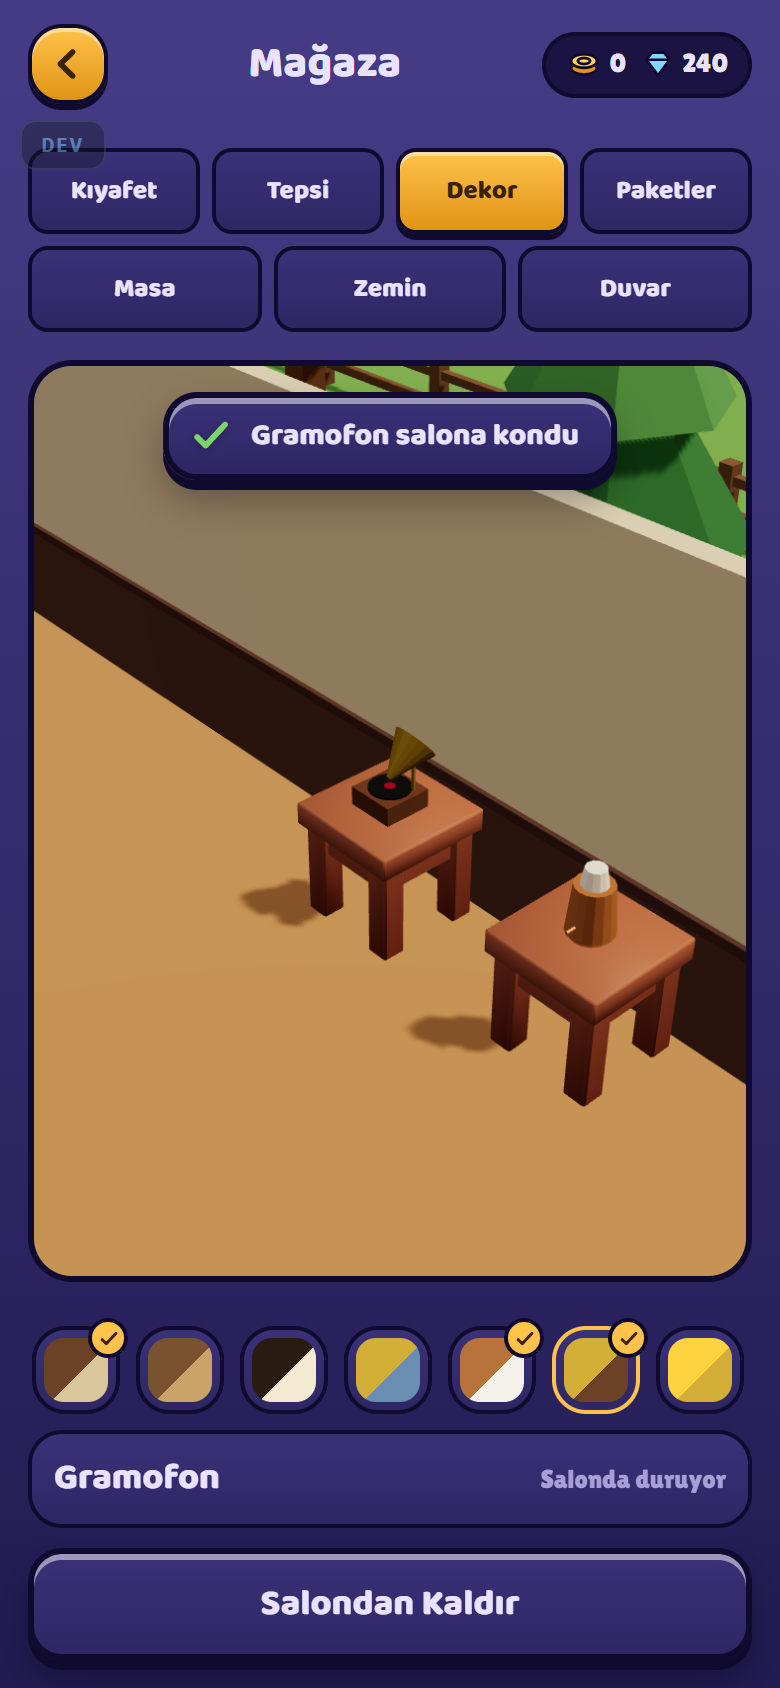
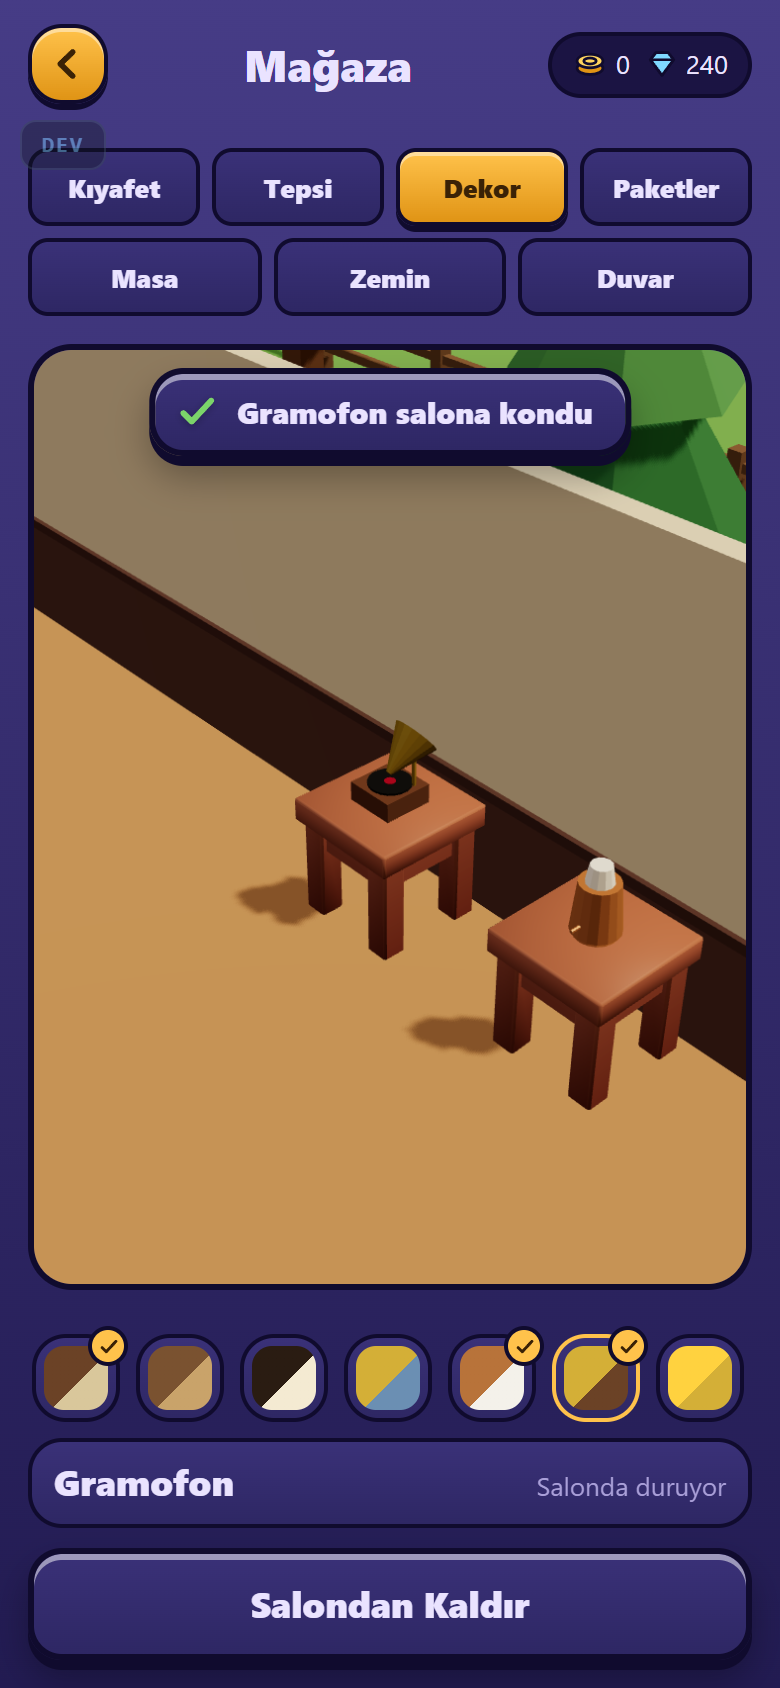
F4c-4: alim bildirimi magazanin icinde, onizleme cercevesinin 14 px icinde (sabit top:196px sekme satirina bagliydi, ust kenara biniyordu) + duman konum denetimi + kare son-20

diff --git a/src/components/ui/HUD.tsx b/src/components/ui/HUD.tsx
@@ -3,7 +3,7 @@ import { useGame, goalMetricsOf, tableThemeUnlocked, tableSoftMaxLevel, gorunenC
 import { claimableGoals, collectionBonus, goalViewsForPanel, type GoalView } from '../../game/goals';
 import { dailyViews, claimableDailyCount, dayIndex, type DailyQuestView } from '../../game/dailyQuests';
 import { dailyCountersOf } from '../../game/store';
-import { adFreeDailyReady, masterAdsLeft, masterCost, toastCizilir, questInTransition, videoReward, videoRights, type QuestView } from '../../game/rules';
+import { adFreeDailyReady, masterAdsLeft, masterCost, toastCizilir, questInTransition, videoReward, videoRights, type GameNotice, type QuestView } from '../../game/rules';
 import { ekranKanali, geriTusu, tepsiIpucuZamani } from '../../game/ekranKanali';
 import { Capacitor } from '@capacitor/core';
 import { App as CapApp } from '@capacitor/app';
@@ -367,22 +367,8 @@ export function HUD() {
           bir tip daralmasıyla sessizce geri alındı (f4b1a52). Olay hâlâ üretiliyor, `tick.ts`e
           DOKUNULMADI (sunum katmanı kararı, E3/D-096 deseni): devHooks anlık görüntüsü ve ona
           bağlı testler değişmedi. Ölçüm: docs/serit-raporu-g1.md §Bulgular 1. */}
-      {toastCizilir(notice) && (
-        <div className={`notice${notice.kind === 'satin' ? ' satin' : ''}`} data-testid="notice" key={notice.text}>
-          <span className="notice-badge">
-            {notice.kind === 'level' ? <StarBadge size={28} /> : notice.kind === 'satin' ? <TickIcon size={22} /> : <BangBadge size={28} />}
-          </span>
-          <span className="notice-text">{notice.text}</span>
-          {notice.reward != null && (
-            <span className="notice-reward" data-testid="notice-reward">
-              {/* TAM SAYI: oto-toplama toplamı kesirli geliyordu ve "273.3333" Türkçe okumada
-                  binlik ayracı gibi görünüyordu (kullanıcı: *"273k para toplanmış gibi
-                  gözüküyor"*). Para zaten kuruşsuz sunuluyor; burada da yuvarlanır. */}
-              <CoinIcon size={16} />+{fmt(notice.reward)}
-            </span>
-          )}
-        </div>
-      )}
+      {/* Mağaza açıkken alım bildirimi mağazanın İÇİNDE çizilir (ShopPanel · `shop-bildirim-capa`). */}
+      {toastCizilir(notice) && !(notice.kind === 'satin' && sheet === 'shop') && <Bildirim key={notice.text} notice={notice} />}
 
       {/* ───────── USTA MODALİ (G-14) ─────────
           D8'de bu bir alt şeritti ve bandı devralıyordu; kullanıcı 2026-09-09'da şeridi reddedip
@@ -1711,6 +1697,40 @@ const UYGULANDI_SATIRI: Record<Sekme, string> = {
 /** 💎 ile alınan sekmeler üst satırda (F4c-2) — ₺ sekmeleriyle karışmasın. */
 const ELMAS_SEKME: readonly Sekme[] = ['outfit', 'tray', 'decor', 'paket'];
 
+function Bildirim({ notice }: { notice: GameNotice }) {
+  return (
+    <div className={`notice${notice.kind === 'satin' ? ' satin' : ''}`} data-testid="notice">
+      <span className="notice-badge">
+        {notice.kind === 'level' ? <StarBadge size={28} /> : notice.kind === 'satin' ? <TickIcon size={22} /> : <BangBadge size={28} />}
+      </span>
+      <span className="notice-text">{notice.text}</span>
+      {notice.reward != null && (
+        <span className="notice-reward" data-testid="notice-reward">
+          {/* TAM SAYI: oto-toplama toplamı kesirli geliyordu ve "273.3333" Türkçe okumada
+              binlik ayracı gibi görünüyordu (kullanıcı: *"273k para toplanmış gibi
+              gözüküyor"*). Para zaten kuruşsuz sunuluyor; burada da yuvarlanır. */}
+          <CoinIcon size={16} />+{fmt(notice.reward)}
+        </span>
+      )}
+    </div>
+  );
+}
+
+/**
+ * F4c-4 alım bildirimi — MAĞAZANIN İÇİNDE, sekmelerin hemen altındaki sıfır yükseklikli çapada.
+ * Eskiden HUD kökünde sabit `top: 196px` ile duruyordu; sekme satırı ekran genişliğine göre bir ya da
+ * iki satır olduğundan önizlemenin üst kenarına biniyordu. Çapa önizlemenin başladığı yerde; bildirim
+ * oradan içeri doğru iner → kenarla çakışmaz, sekmeleri örtmez.
+ */
+function MagazaBildirimi() {
+  const notice = useGame((s) => s.notice);
+  return (
+    <div className="shop-bildirim-capa" data-testid="shop-bildirim-capa">
+      {toastCizilir(notice) && notice.kind === 'satin' && <Bildirim key={notice.text} notice={notice} />}
+    </div>
+  );
+}
+
 function ShopPanel({ onClose }: { onClose: () => void }) {
   const areasOpen = useGame((s) => s.areasOpen);
   const tables = useGame((s) => s.tables);
@@ -1897,6 +1917,7 @@ function ShopPanel({ onClose }: { onClose: () => void }) {
             </button>
           ))}
         </div>
+        <MagazaBildirimi />
 
         {tab === 'paket' ? (
           <Paketler />

diff --git a/src/components/ui/hud.css b/src/components/ui/hud.css
@@ -1938,11 +1938,20 @@
   vertical-align: 2px;
 }
 /* Satın alma bildirimi (F4c-4): mağaza tam ekran — alttaki toast yerinde kalsa ekranın ARKASINDA kalır. */
-.notice.satin {
+/* Mağazanın içindeki alım bildirimi çapası: sekmelerle önizleme arasında, yüksekliği SIFIR —
+   yerleşimi kaydırmaz. Bildirim çapadan aşağı, önizlemenin çerçevesinin İÇİNE iner (14 px =
+   önizlemenin 2 px üst payı + 3 px çerçeve + nefes). Sabit `top` sekme satırı sayısına bağlıydı. */
+.shop-bildirim-capa {
+  position: relative;
+  height: 0;
   z-index: 45;
-  /* Sekmelerin ALTINA, önizlemenin üst kenarına: sekmeleri örtmez, ad satırını ve düğmeyi de örtmez. */
-  top: calc(var(--sat) + 196px);
+}
+.shop-bildirim-capa .notice {
+  top: 14px;
   bottom: auto;
+  /* Kök bildirimin tavanı EKRAN yüzdesiyle kenar düğmelerinden kaçıyordu; burada % kartın genişliği
+     ve kenarda düğme yok → tavan önizlemenin iç genişliği. */
+  max-width: calc(100% - 24px);
 }
 .notice.satin .notice-badge {
   color: var(--ok);

diff --git a/tests/gorev-seridi-g1.test.ts b/tests/gorev-seridi-g1.test.ts
@@ -85,8 +85,11 @@ describe('G1/1 · tebrik TEK yerde: bant', () => {
 
   it('HUD bildirimi kapıdan geçirmeden çizmiyor', () => {
     const src = oku(HUD);
-    // Ada değil KULLANIMA bakar: `data-testid="notice"` bloğunu açan koşul kapının kendisi olmalı.
-    expect(src).toContain('toastCizilir(notice) && (');
+    // Ada değil KULLANIMA bakar: `data-testid="notice"` kutusu `Bildirim` bileşeninde; onu çizen
+    // HER satır (HUD kökü + mağaza çapası, F4c-4) kapının kendisiyle açılmalı.
+    const cizimler = src.split('\n').filter((l) => l.includes('<Bildirim '));
+    expect(cizimler.length).toBeGreaterThanOrEqual(2);
+    for (const l of cizimler) expect(l).toContain('toastCizilir(notice) &&');
     // Kapısız bir `{notice && (` geri gelirse bu satır yakalar — f4b1a52'nin yaptığı tam buydu.
     expect(src).not.toMatch(/\{notice && \(/);
   });
